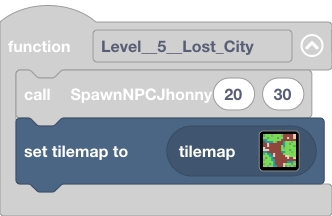
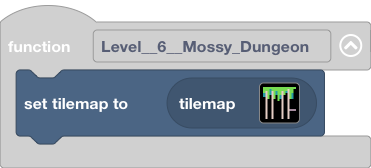
Update main.blocks, main.ts, tilemap.g.jres, tilemap.g.ts

diff --git a/tilemap.g.ts b/tilemap.g.ts
@@ -214,6 +214,12 @@ namespace myTiles {
     export const tile105 = image.ofBuffer(hex``);
     //% fixedInstance jres blockIdentity=images._tile
     export const tile106 = image.ofBuffer(hex``);
+    //% fixedInstance jres blockIdentity=images._tile
+    export const tile107 = image.ofBuffer(hex``);
+    //% fixedInstance jres blockIdentity=images._tile
+    export const tile108 = image.ofBuffer(hex``);
+    //% fixedInstance jres blockIdentity=images._tile
+    export const tile109 = image.ofBuffer(hex``);
 
     helpers._registerFactory("tilemap", function(name: string) {
         switch(helpers.stringTrim(name)) {
@@ -1092,6 +1098,44 @@ namespace myTiles {
 . . . . . . . . . . . . . . . . 
 . . . . . . . . . . . . . . . . 
 `, [myTiles.transparency16,myTiles.tile93,myTiles.tile101,myTiles.tile102,myTiles.tile77,myTiles.tile78,myTiles.tile105,myTiles.tile106], TileScale.Sixteen);
+            case "level46":
+            case "level46":return tiles.createTilemap(hex`1000100000000000000000000000000000000000000000000000000000000000000000000000000000000000000000000000000000000000000000000000000000000000000000000000000000000000000000000000000000000000000000000000000000000000000000000000000000000000000000000000000000000000000000000000000000000000000000000000000000000000000000000000000000000000000000000000000000000000000000000000000000000000000000000000000000000000000000000000000000000000000000000000000000000000000000000000000000000000000000000000000000000000000000000000000000000000`, img`
+. . . . . . . . . . . . . . . . 
+. . . . . . . . . . . . . . . . 
+. . . . . . . . . . . . . . . . 
+. . . . . . . . . . . . . . . . 
+. . . . . . . . . . . . . . . . 
+. . . . . . . . . . . . . . . . 
+. . . . . . . . . . . . . . . . 
+. . . . . . . . . . . . . . . . 
+. . . . . . . . . . . . . . . . 
+. . . . . . . . . . . . . . . . 
+. . . . . . . . . . . . . . . . 
+. . . . . . . . . . . . . . . . 
+. . . . . . . . . . . . . . . . 
+. . . . . . . . . . . . . . . . 
+. . . . . . . . . . . . . . . . 
+. . . . . . . . . . . . . . . . 
+`, [myTiles.transparency16], TileScale.Sixteen);
+            case "level47":
+            case "level47":return tiles.createTilemap(hex`1000100001010101010101010101010101010101010101020101010101010101040101030104010204010201010401020401010302040102040102010104010304010203020401030401030102040303040102030304010304010301020403030401020303040303040303010304030304030303030403030403030303040303040303030304030304030303030403030403030303040303040303030304030304030303030403030403030303040303040303030304030304030303030403030406060603040303040303030304030304030303030403030403030303040303040303030304030304030303030403030403030303040303040303030304030304030303`, img`
+. . . . . . . . . . . . . . . . 
+. . . . . . . . . . . . . . . . 
+. . . . . . . . . . . . . . . . 
+. . . . . . . . . . . . . . . . 
+. . . . . . . . . . . . . . . . 
+. . . . . . . . . . . . . . . . 
+. . . . . . . . . . . . . . . . 
+. . . . . . . . . . . . . . . . 
+. . . . . . . . . . . . . . . . 
+. . . . . . . . . . . . . . . . 
+. . . . . . . . . . . . . . . . 
+. . . . . . . . . . . . . . . . 
+. . . . . . . . . . . . . . . . 
+. . . . . . . . . . . . . . . . 
+. . . . . . . . . . . . . . . . 
+. . . . . . . . . . . . . . . . 
+`, [myTiles.transparency16,myTiles.tile93,myTiles.tile95,myTiles.tile92,myTiles.tile90,myTiles.tile109,sprites.dungeon.stairWest], TileScale.Sixteen);
         }
         return null;
     })
@@ -1311,6 +1355,12 @@ namespace myTiles {
             case "tile105":return tile105;
             case "myTile79":
             case "tile106":return tile106;
+            case "myTile80":
+            case "tile107":return tile107;
+            case "myTile81":
+            case "tile108":return tile108;
+            case "myTile82":
+            case "tile109":return tile109;
         }
         return null;
     })

diff --git a/main.ts b/main.ts
@@ -1159,7 +1159,7 @@ controller.B.onEvent(ControllerButtonEvent.Released, function () {
     controller.moveSprite(PlayerWarrior)
 })
 function Level__6__Mossy_Dungeon () {
-	
+    tiles.setCurrentTilemap(tilemap`level47`)
 }
 function moveSpriteRandomFixedTime (sprite: Sprite, yLowerBound: number, outerBound: number, t: number) {
     moveSpriteInTime(sprite, randint(outerBound, scene.screenWidth() - outerBound), randint(outerBound, yLowerBound), t)
